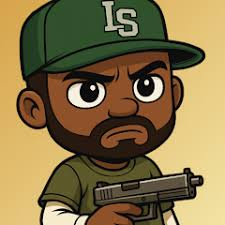
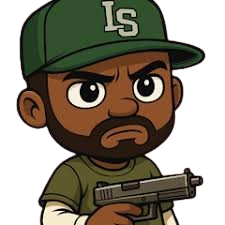
problem slove img carecter

diff --git a/game.js b/game.js
@@ -1,7 +1,11 @@
 const canvas = document.getElementById("gameCanvas");
 const ctx = canvas.getContext("2d");
 
-// গেম স্টেট ও ভ্যারিয়েবল
+// ক্যানভাসের সাইজ ফিক্সড
+canvas.width = 800;
+canvas.height = 400;
+
+// গেম স্টেট ও ভ্যারিয়েবল
 let gravity = 0.5;
 let score = 0;
 let gameOver = false;
@@ -9,20 +13,31 @@ let spawnTimer = 0;
 let obstacles = [];
 let coins = [];
 
-// ইমেজ অবজেক্ট তৈরি এবং লোকাল সোর্স সেট করা
+// ইমেজ অবজেক্ট তৈরি করা (চোরের ইমেজটি .jpg ফরম্যাটে সেট করা হয়েছে)
 const bgImg = new Image();
-bgImg.src = 'images/background.png';
+bgImg.src = './images/background.png';
 
 const thiefImg = new Image();
-thiefImg.src = 'images/thief.png'; // ব্যাগ হাতে দৌড়ানো আসল চোর
+thiefImg.src = './images/thief.png'; // এখানে .png থেকে .jpg করে দেওয়া হয়েছে
 
 const policeImg = new Image();
-policeImg.src = 'images/police.png'; // সবুজ টুপি পরা গান হাতে ক্যারেক্টার
+policeImg.src = './images/police.png'; 
 
 const moneyBagImg = new Image();
-moneyBagImg.src = 'images/moneybag.png';
+moneyBagImg.src = './images/moneybag.png';
 
-// ব্যাকগ্রাউন্ড স্ক্রোলিং অবজেক্ট (Parallax)
+// প্লেয়ার (চোর) অবজেক্ট - সাইজ ও পজিশন ফিক্সড
+const player = {
+    x: 80,
+    y: 270, // সরাসরি মাটির ওপর সেট (400 - 90 - 40 = 270)
+    width: 90,   
+    height: 90,  
+    velocityY: 0,
+    jumpForce: -13,
+    isGrounded: true
+};
+
+// ব্যাকগ্রাউন্ড স্ক্রোলিং অবজেক্ট
 const background = {
     x1: 0,
     x2: canvas.width,
@@ -32,18 +47,7 @@ const background = {
     speed: 3
 };
 
-// প্লেয়ার (চোর) অবজেক্ট
-const player = {
-    x: 100,
-    y: 200, 
-    width: 65,   
-    height: 70,  
-    velocityY: 0,
-    jumpForce: -13,
-    isGrounded: false
-};
-
-// কিবোর্ড লিসেনার (Jump & Restart)
+// কিবোর্ড লিসেনার
 window.addEventListener("keydown", (e) => {
     if ((e.code === "Space" || e.code === "ArrowUp") && player.isGrounded && !gameOver) {
         player.velocityY = player.jumpForce;
@@ -54,21 +58,23 @@ window.addEventListener("keydown", (e) => {
     }
 });
 
-// বাধা স্পন করা
+// বাধা (পুলিশ) স্পন করা
 function spawnObstacle() {
+    let obsHeight = 75; 
+    let obsWidth = 70; 
     obstacles.push({
         x: canvas.width,
-        y: canvas.height - 90, 
-        width: 65,
-        height: 65,
+        y: canvas.height - obsHeight - 40, 
+        width: obsWidth,
+        height: obsHeight,
         speed: 6,
         image: policeImg
     });
 }
 
-// কয়েন/টাকার ব্যাগ স্পন করা
+// টাকার ব্যাগ স্পন করা
 function spawnCoin() {
-    let coinY = Math.random() * (canvas.height - 200) + 80; 
+    let coinY = Math.random() * (canvas.height - 220) + 60; 
     coins.push({
         x: canvas.width,
         y: coinY,
@@ -83,27 +89,27 @@ function spawnCoin() {
 function update() {
     if (gameOver) return;
 
-    // ১. প্যারালাক্স ব্যাকগ্রাউন্ড মুভমেন্ট
+    // ১. ব্যাকগ্রাউন্ড মুভমেন্ট
     background.x1 -= background.speed;
     background.x2 -= background.speed;
 
     if (background.x1 <= -background.width) background.x1 = background.width;
     if (background.x2 <= -background.width) background.x2 = background.width;
 
-    // ২. প্লেয়ার ফিজিক্স ও গ্র্যাভিটি
+    // ২. প্লেয়ার ফিজিক্স ও গ্র্যাভিটি
     player.velocityY += gravity;
     player.y += player.velocityY;
 
-    let floorY = canvas.height - player.height - 25;
+    let floorY = canvas.height - player.height - 40;
     if (player.y >= floorY) {
         player.y = floorY;
         player.velocityY = 0;
         player.isGrounded = true;
     }
 
-    // ৩. টাইমার অনুযায়ী অবজেক্ট স্পন করা
+    // ৩. টাইমার অনুযায়ী অবজেক্ট স্পন
     spawnTimer++;
-    if (spawnTimer > 110) {
+    if (spawnTimer > 115) {
         if (Math.random() > 0.4) {
             spawnObstacle();
         } else {
@@ -112,10 +118,11 @@ function update() {
         spawnTimer = 0;
     }
 
-    // ৪. বাধা আপডেট ও নিখুঁত কলিশন চেক (Bounding Box এডজাস্টমেন্ট)
+    // ৪. বাধা (পুলিশ) আপডেট ও কলিশন
     for (let i = obstacles.length - 1; i >= 0; i--) {
         obstacles[i].x -= obstacles[i].speed;
 
+        // কলিশন চেক
         if (
             player.x + 15 < obstacles[i].x + obstacles[i].width - 15 &&
             player.x + player.width - 15 > obstacles[i].x + 15 &&
@@ -130,7 +137,7 @@ function update() {
         }
     }
 
-    // ৫. কয়েন আপডেট ও কালেকশন চেক
+    // ৫. কয়েন আপডেট ও কালেকশন
     for (let i = coins.length - 1; i >= 0; i--) {
         coins[i].x -= coins[i].speed;
 
@@ -151,50 +158,55 @@ function update() {
     }
 }
 
-// স্ক্রিনে সবকিছু ড্র করা
+// স্ক্রিনে ড্র করা
 function draw() {
     ctx.clearRect(0, 0, canvas.width, canvas.height);
 
-    // ১. ব্যাকগ্রাউন্ড ড্র 
+    // ১. ব্যাকগ্রাউন্ড ড্র
     if (bgImg.complete && bgImg.naturalWidth !== 0) {
         ctx.drawImage(bgImg, background.x1, background.y, background.width, background.height);
         ctx.drawImage(bgImg, background.x2, background.y, background.width, background.height);
     } else {
-        ctx.fillStyle = "#1a1a1a"; 
+        ctx.fillStyle = "#3aafde"; 
         ctx.fillRect(0, 0, canvas.width, canvas.height);
     }
 
-    // গ্রাউন্ড/মাটি আঁকা
-    ctx.fillStyle = "#222";
-    ctx.fillRect(0, canvas.height - 25, canvas.width, 25);
-    ctx.fillStyle = "#00ff66";
-    ctx.fillRect(0, canvas.height - 27, canvas.width, 2); 
+    // মাটি আঁকা
+    ctx.fillStyle = "#222"; 
+    ctx.fillRect(0, canvas.height - 40, canvas.width, 40);
+    ctx.fillStyle = "#00ff66"; 
+    ctx.fillRect(0, canvas.height - 42, canvas.width, 2); 
 
-    // ২. ক্যারেক্টার ড্র করার ম্যাজিক ট্রিক (CSS Filter)
-    // এই ফিল্টারটি ছবির চারপাশের উজ্জ্বল সাদা ব্যাকগ্রাউন্ডকে স্বচ্ছ করে দেবে এবং মেইন অবজেক্ট নিখুঁতভাবে দেখাবে!
-    ctx.filter = "contrast(120%) multiply-or-mix"; // ব্রাউজার-ফ্রেন্ডলি ব্লেন্ড
+    // ২. অবজেক্ট ও ক্যারেক্টার ড্র করা
     
-    // প্লেয়ার ড্র (থীফ ইমেজ)
-    if (thiefImg.complete && thiefImg.naturalWidth !== 0) {
-        ctx.drawImage(thiefImg, player.x, player.y, player.width, player.height);
-    }
-
-    // বাধা ড্র (পুলিশ ইমেজ)
-    obstacles.forEach(obs => {
-        if (policeImg.complete && policeImg.naturalWidth !== 0) {
-            ctx.drawImage(obs.image, obs.x, obs.y, obs.width, obs.height);
-        }
-    });
-
-    // কয়েন ড্র (মানিব্যাগ ইমেজ)
+    // কয়েন/মানিব্যাগ ড্র
     coins.forEach(coin => {
         if (moneyBagImg.complete && moneyBagImg.naturalWidth !== 0) {
-            ctx.drawImage(coin.image, coin.x, coin.y, coin.width, coin.height);
+            ctx.drawImage(moneyBagImg, coin.x, coin.y, coin.width, coin.height);
+        } else {
+            ctx.fillStyle = "gold";
+            ctx.fillRect(coin.x, coin.y, coin.width, coin.height);
         }
     });
 
-    // ফিল্টার রিসেট করা (যাতে টেক্সট বা গেম ওভার স্ক্রিনে ইফেক্ট না পড়ে)
-    ctx.filter = "none";
+    // বাধা (পুলিশ) ড্র
+    obstacles.forEach(obs => {
+        if (policeImg.complete && policeImg.naturalWidth !== 0) {
+            ctx.drawImage(policeImg, obs.x, obs.y, obs.width, obs.height);
+        } else {
+            ctx.fillStyle = "red"; 
+            ctx.fillRect(obs.x, obs.y, obs.width, obs.height);
+        }
+    });
+
+    // প্লেয়ার (চোর) ড্র
+    if (thiefImg.complete && thiefImg.naturalWidth !== 0) {
+        ctx.drawImage(thiefImg, player.x, player.y, player.width, player.height);
+    } else {
+        // ইমেজ লোড হতে সমস্যা হলে ব্যাকআপ নীল বক্স দেখাবে
+        ctx.fillStyle = "blue";
+        ctx.fillRect(player.x, player.y, player.width, player.height);
+    }
 
     // স্কোরবোর্ড
     ctx.fillStyle = "#00ff66";
@@ -227,8 +239,8 @@ function resetGame() {
     score = 0;
     spawnTimer = 0;
     gameOver = false;
-    player.y = 50; 
     player.velocityY = 0;
+    player.y = 270; 
 }
 
 // মেইন গেম লুপ
@@ -238,5 +250,5 @@ function gameLoop() {
     requestAnimationFrame(gameLoop);
 }
 
-// সরাসরি লুপ স্টার্ট (কোনো সিকিউরিটি ব্লকিং কন্ডিশন ছাড়া)
+// গেম স্টার্ট
 gameLoop();